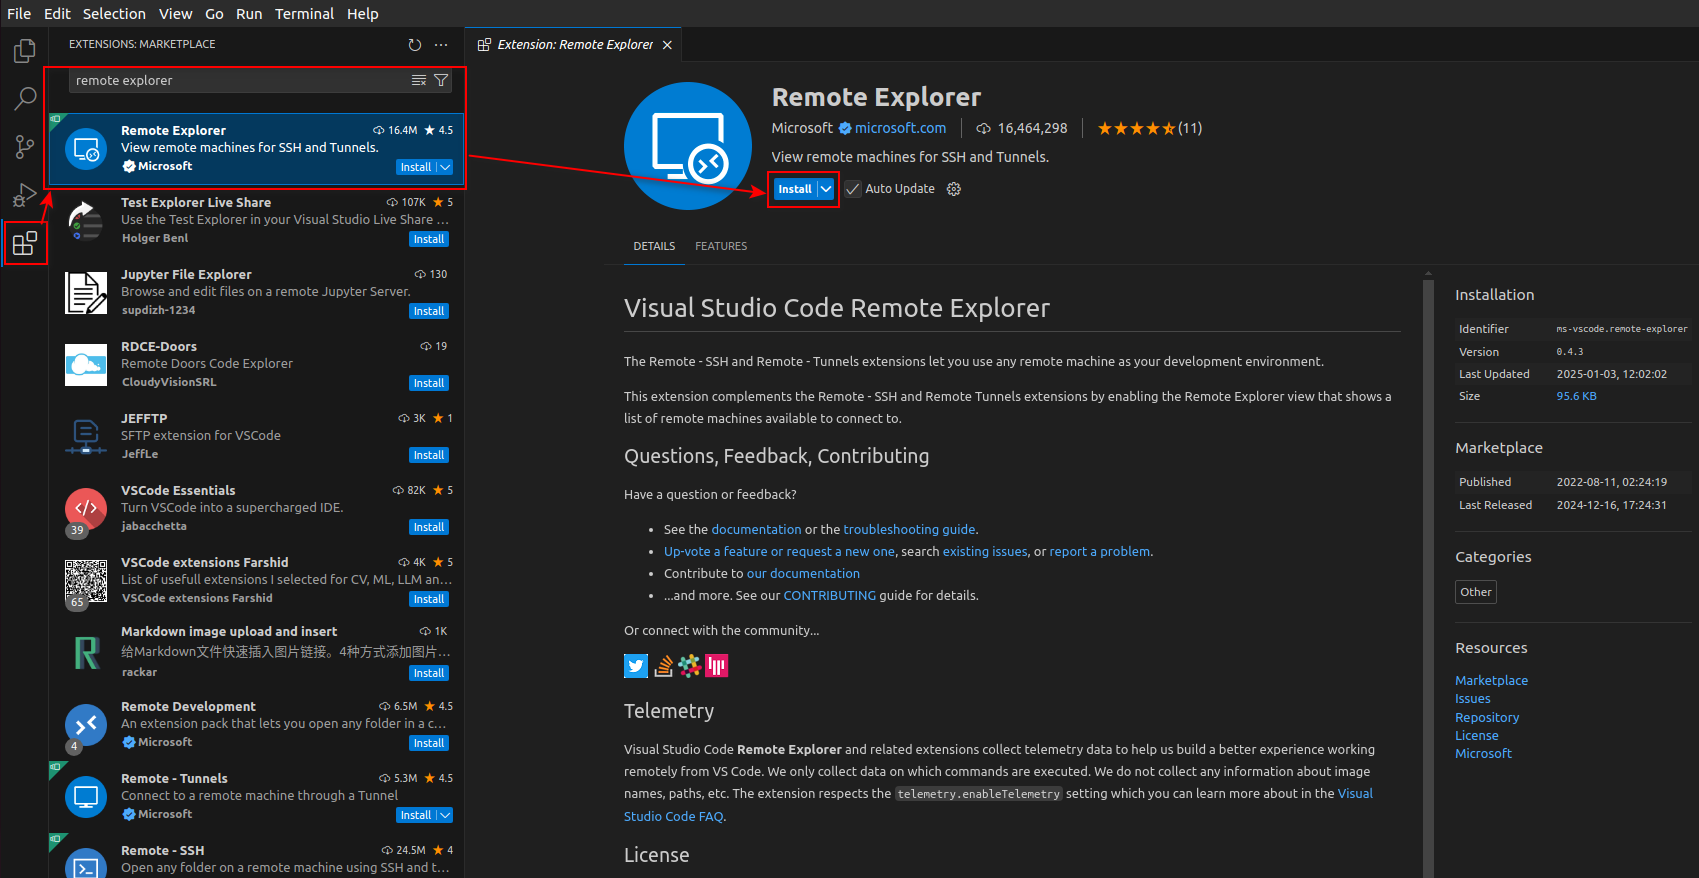
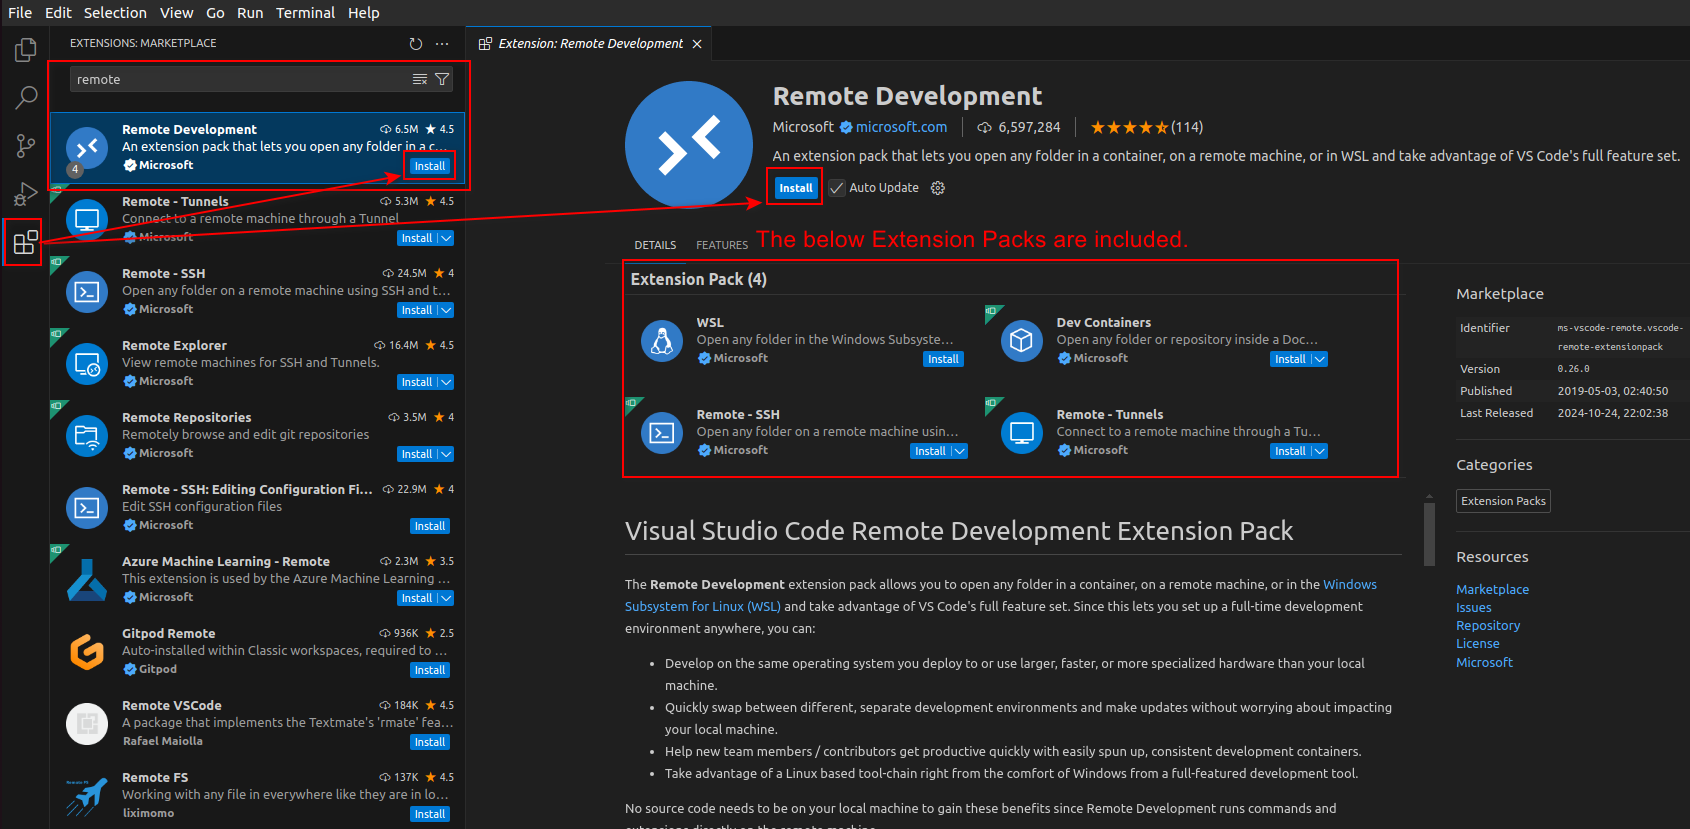
0103_update2

diff --git a/docs/Yocto/05_install vscode_yocto.md b/docs/Yocto/05_install vscode_yocto.md
@@ -28,10 +28,9 @@ lsb_release -a
 
 # （Windows）
 
-### Install VSCode plugins of Remote Explorer / Remote Development
+### Install VSCode plugin of "Remote Development"
 
 ![](../img/05_25.png)
-![](../img/05_26.png)
 
 ### VSCode of Windows controls “docker engine” of Ubuntu remotely
 
